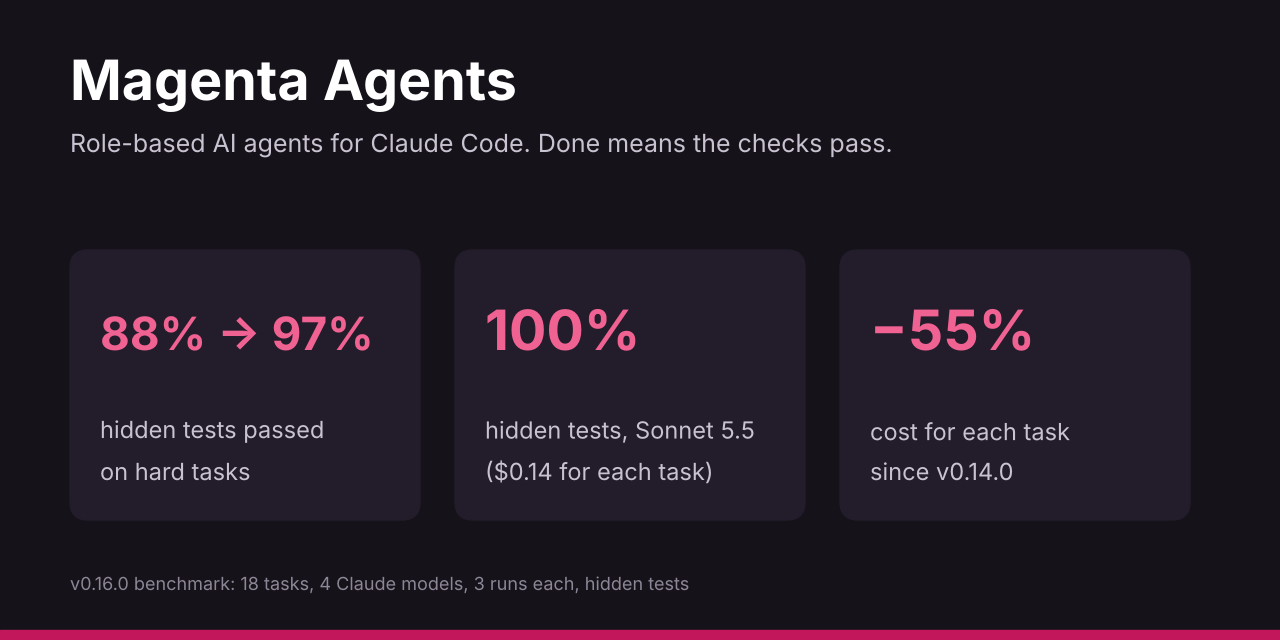
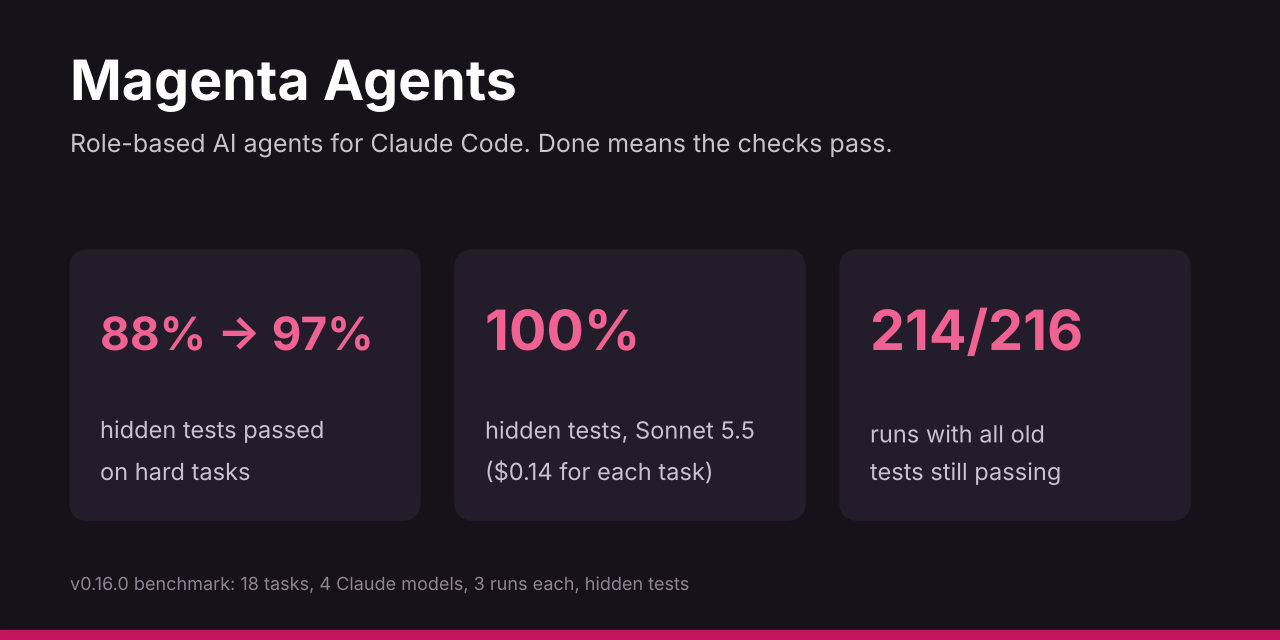
Cost chart with the last two versions; 0.16.0 notes with the fixes
- versions.png: the cost panel shows only the last two versions.
- The card shows the old tests kept in place of the cost since 0.14.
- CHANGELOG and release notes of 0.16.0: the macOS, Windows, and
  fingerprint fixes, the release benchmark, and the 4-model results.

Claude-Session: https://claude.ai/code/session_019ApqmyiJgXD98zR5fbRjpP

Changed region(s): [[0.6875, 0.4688, 0.8438, 0.5625], [0.6875, 0.7188, 0.8438, 0.75], [0.6875, 0.6562, 0.8438, 0.6875]]

diff --git a/evals/benchmark/charts_release.py b/evals/benchmark/charts_release.py
@@ -17,6 +17,7 @@ plt.rcParams.update({
     "axes.axisbelow": True, "figure.facecolor": SURFACE, "axes.facecolor": SURFACE, "savefig.facecolor": SURFACE,
     "svg.hashsalt": "magenta", "savefig.dpi": 160,
 })
+COST_VERSIONS = 2  # the versions in the cost panel of versions.png
 META = {"Software": None, "Creation Time": None}  # the same data gives the same file
 
 
@@ -135,15 +136,19 @@ def history(vs, out):
     a1.set_ylim(lo - 6, 101); a1.set_xticks(x, names); a1.set_xlim(-0.3, len(x) - 0.7)
     a1.set_title("Hidden tests passed (%)", loc="left", fontsize=12, color=INK)
     w = 0.36
+    last = rows[-COST_VERSIONS:]  # the cost panel shows only the newest versions
+    xc = list(range(len(last)))
     for off, i, color in ((-w / 2 - 0.01, 1, PLAIN), (w / 2 + 0.01, 2, MAGENTA)):
-        bars = a2.bar([j + off for j in x], [r[i]["cost"] for r in rows], w, color=color, zorder=2)
-        a2.bar_label(bars, labels=[f"${r[i]['cost']:.2f}" for r in rows], padding=3, fontsize=10)
-    a2.set_xticks(x, names); a2.set_title("Cost for each task (USD)", loc="left", fontsize=12, color=INK)
+        bars = a2.bar([j + off for j in xc], [r[i]["cost"] for r in last], w, color=color, zorder=2)
+        a2.bar_label(bars, labels=[f"${r[i]['cost']:.2f}" for r in last], padding=3, fontsize=10)
+    a2.set_ylim(0, max(r[i]["cost"] for r in last for i in (1, 2)) * 1.2)
+    a2.set_xticks(xc, [f"v{r[0]}" for r in last])
+    a2.set_title(f"Cost for each task (USD), last {len(last)} versions", loc="left", fontsize=12, color=INK)
     a2.yaxis.set_major_formatter(lambda v, _: f"${v:.2f}")
     for a in (a1, a2):
         a.tick_params(axis="x", length=0, labelcolor=INK)
-    q0, q1, c0, c1 = rows[0][2]["hidden"], rows[-1][2]["hidden"], rows[0][2]["cost"], rows[-1][2]["cost"]
-    _title(fig, f"Since v{rows[0][0]}: hidden tests {q0:.1f}% → {q1:.1f}%, cost for each task {(c1 / c0 - 1) * 100:+.0f}%",
+    q0, q1 = rows[0][2]["hidden"], rows[-1][2]["hidden"]
+    _title(fig, f"Since v{rows[0][0]}: hidden tests passed {q0:.1f}% → {q1:.1f}% with Magenta",
            "The 14 tasks that every version ran, with the models of that run.")
     _legend(fig)
     _save(fig, out / "versions.png")
@@ -163,10 +168,8 @@ def card(vs, out):
     ax.text(70, 488, "Role-based AI agents for Claude Code. Done means the checks pass.", fontsize=18, color="#c9c3d1")
     tiles = [(f"{hard['plain']['hidden']:.0f}% → {hard['magenta']['hidden']:.0f}%", "hidden tests passed\non hard tasks"),
              (f"{b['hidden']:.0f}%", f"hidden tests, {R.NAMES[best]}\n(${b['cost']:.2f} for each task)")]
-    if len(vs) > 1:
-        first = R.stats(R.select(vs[0], "magenta", tasks=R.CORE))["cost"]
-        now = R.stats(R.select(v, "magenta", tasks=R.CORE))["cost"]
-        tiles.append((f"−{(1 - now / first) * 100:.0f}%", f"cost for each task\nsince v{vs[0]['version']}"))
+    m = s["all"]["magenta"]
+    tiles.append((f"{m['old_tests_kept']}/{m['runs']}", "runs with all old\ntests still passing"))
     for i, (big, small) in enumerate(tiles):
         x0 = 70 + i * 385
         ax.add_patch(FancyBboxPatch((x0, 120), 350, 270, boxstyle="round,pad=0,rounding_size=18", color="#231d2b"))

diff --git a/CHANGELOG.md b/CHANGELOG.md
@@ -4,31 +4,28 @@ All notable changes are in this file. The format follows [Keep a Changelog](http
 
 ## [Unreleased]
 
-### Added
-
-- **A benchmark at each release.** `evals/benchmark/release.py` runs the benchmark (a plain prompt against `/magenta`, 18 tasks with hidden tests, 4 Claude models, 3 runs), writes `evals/benchmark/results/v<version>.json`, makes the images in `docs/assets/benchmark/`, and updates the benchmark block of the README. The release workflow stops when the results of the tag are missing or not published (`release.py check`).
-- The results of 0.14.0, 0.15.0, and 0.16.0 in `evals/benchmark/results/`, and a chart that compares the versions.
-- A new README with a banner, the benchmark results, and a table that tells when to use Magenta and when a plain prompt is enough.
-
-### Changed
-
-- The older benchmark notes and scripts are in `evals/benchmark/archive/`.
-
-## [0.16.0] - 2026-11-03
+## [0.16.0] - 2026-11-04
 
 ### Added
 
 - **The script decides if direct mode is allowed.** `verify context` now ends with a "Direct mode" section. It says "Not allowed" (with the reasons) when a rule file names the changed file or module, when the code is about money, security, personal data, or a migration, when the code writes a stored format, or when two or more other files use a changed function. The conductor follows this verdict.
 - Conductor rule 2: follow the rules of the repository exactly (names, exception types, formats, defaults). Write a better idea in the report, and let the human decide.
 - Benchmark: 4 held-out tasks (h7 to h10) that were not used to tune Magenta, and 3 runs for each task.
+- **A benchmark at each release.** `evals/benchmark/release.py` runs the benchmark (a plain prompt against `/magenta`, 18 tasks with hidden tests, 4 Claude models, 3 runs), writes `evals/benchmark/results/v<version>.json`, makes the images in `docs/assets/benchmark/`, and updates the benchmark block of the README. The release workflow stops when the results of the tag are missing or not published (`release.py check`).
+- The results of 0.14.0, 0.15.0, and 0.16.0 in `evals/benchmark/results/`, and a chart that compares the versions.
+- A new README with a banner, the benchmark results, and a table that tells when to use Magenta and when a plain prompt is enough.
 
 ### Changed
 
 - `models.yaml`: `reasoning-high` and `reviewer-alt` use `sonnet` on Claude Code (before: `opus`). In the benchmark, Sonnet 5.5 with Magenta passed all hidden tests at a lower cost. Put `opus` back for very hard design or review work.
+- The older benchmark notes and scripts are in `evals/benchmark/archive/`.
 
 ### Fixed
 
 - `verify context` kept only the first line of a rule. The next lines of the same rule (for example "...for other names raise `ValueError`") are now in the output.
+- On macOS, `verify context` found no callers: the system regex of `git grep -E` has no `\b` and `\s`. It now uses POSIX character classes.
+- On Windows, the guard read a rooted path without a drive (for example the verify script path) as a project file, and blocked verify commands.
+- The fingerprint copy of the git index kept a new modification time. Git could then miss an edit of the same size in the same second, and an old PASS could count for new code.
 
 ## [0.15.0] - 2026-11-03
 

diff --git a/docs/releases/v0.16.0.md b/docs/releases/v0.16.0.md
@@ -3,9 +3,19 @@ Magenta 0.16.0 makes the mode decision safer and uses Sonnet as the default stro
 - **Direct mode by a script verdict:** `verify context` says if direct mode is allowed. Rule files, money, security, personal data, stored formats, and shared callers make it "Not allowed".
 - **Follow the rules exactly:** the conductor keeps the names, exception types, and formats of the repository, and writes its own ideas in the report.
 - **Sonnet as default:** `reasoning-high` and `reviewer-alt` use `sonnet` on Claude Code.
-- **Fix:** `verify context` keeps all the lines of a rule.
+- **A benchmark at each release:** the results of each version are in `evals/benchmark/results/`, with the images in the README. The release workflow stops when the benchmark of the version is missing.
+- **Fixes:** `verify context` keeps all the lines of a rule, and finds the callers on macOS. The guard allows verify commands on Windows. The fingerprint sees an edit of the same size in the same second.
 
-Benchmark (18 tasks, 4 of them held out, Sonnet 5.5 and Haiku 4.5, 3 runs each, hidden tests): 0.16 passed 93.1% (a plain prompt: 91.4%), and it kept all original tests (plain: 106 of 108). Sonnet 5.5 passed 100%. The cost is about two times the cost of a plain prompt. See `evals/benchmark/README.md`.
+Benchmark (18 tasks, 4 of them held out, 4 Claude models, 3 runs each, hidden tests):
+
+| | Plain prompt | Magenta 0.16 |
+|---|---:|---:|
+| Hard tasks (hidden rules) | 87.9% | **96.6%** |
+| All tasks | 94.1% | **95.8%** |
+| Sonnet 5.5, all tasks | 99.2% | **100%** ($0.14 for each task) |
+| Old tests still pass | 210 of 216 | **214 of 216** |
+
+On simple and held-out tasks, a plain prompt was better (99.0% against 96.9%, and 93.7% against 90.6%). See `evals/benchmark/README.md`.
 
 ## Upgrade
 
